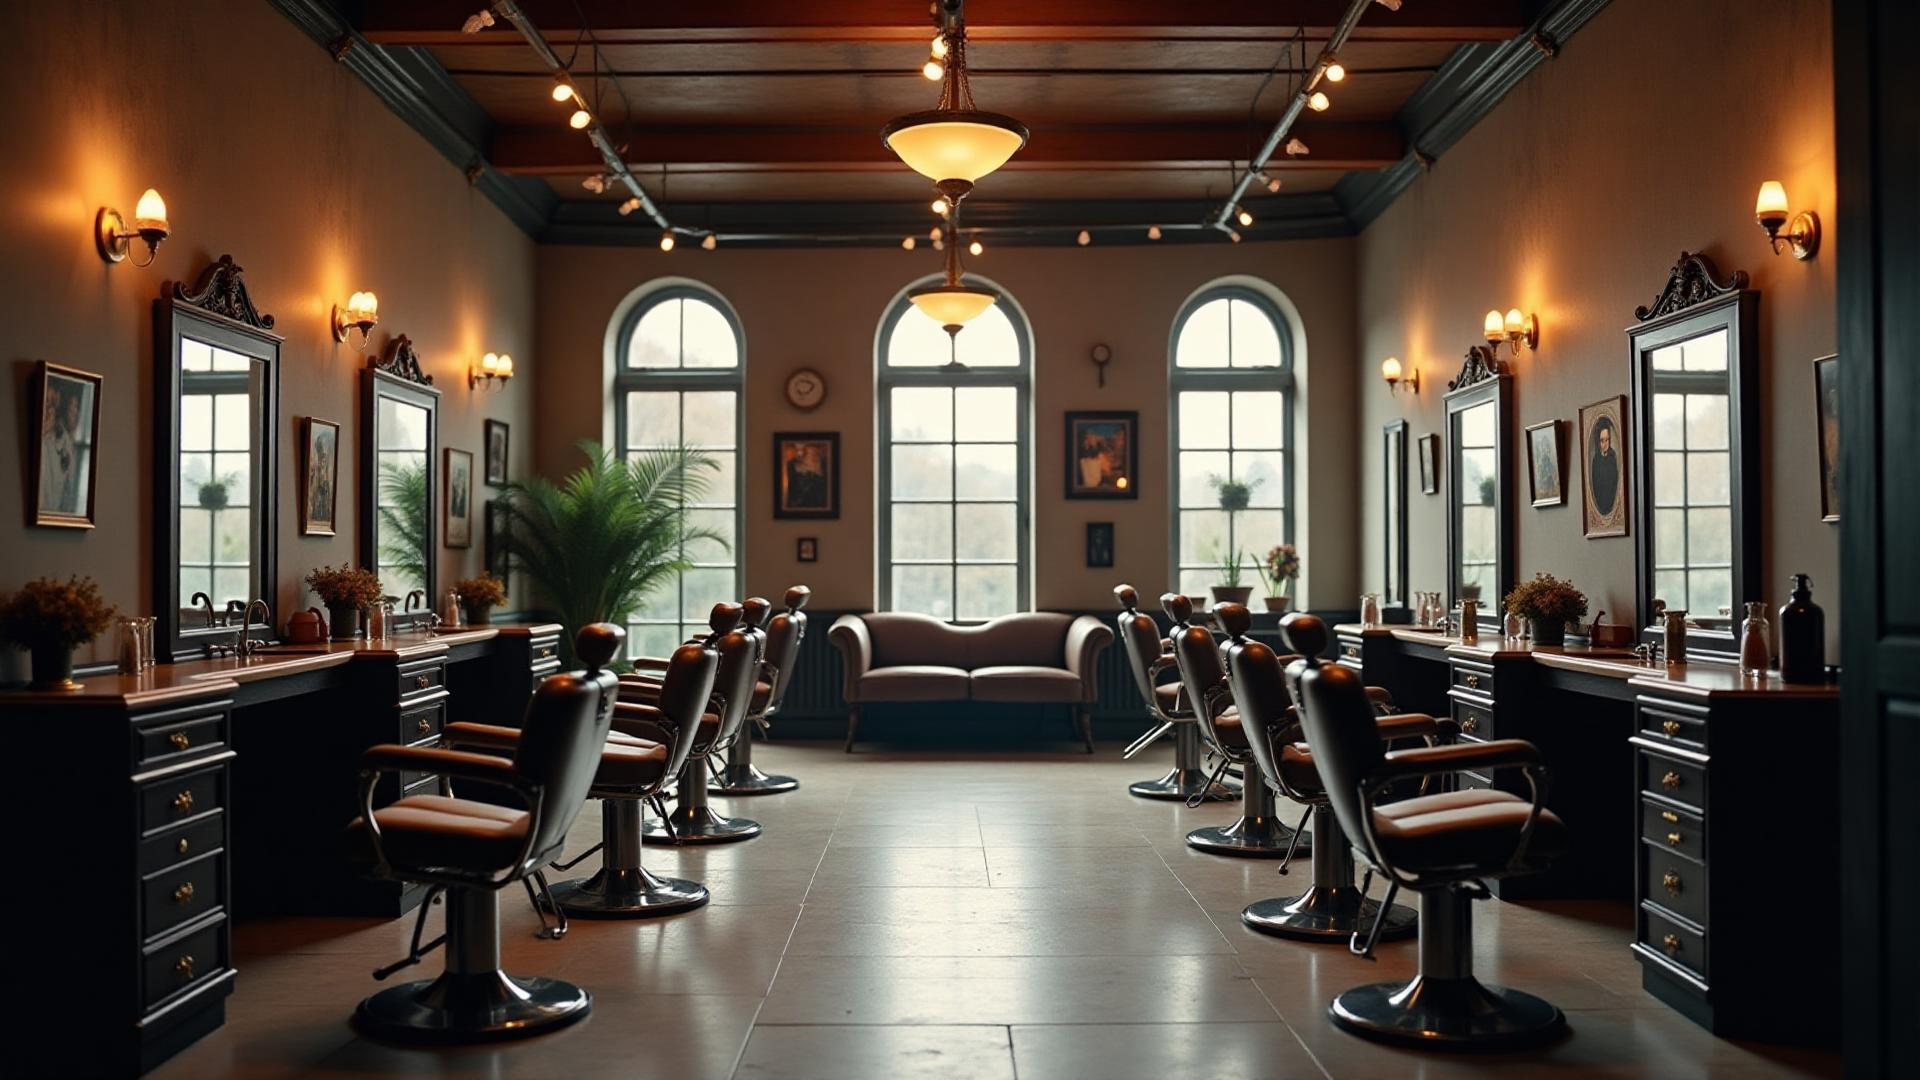
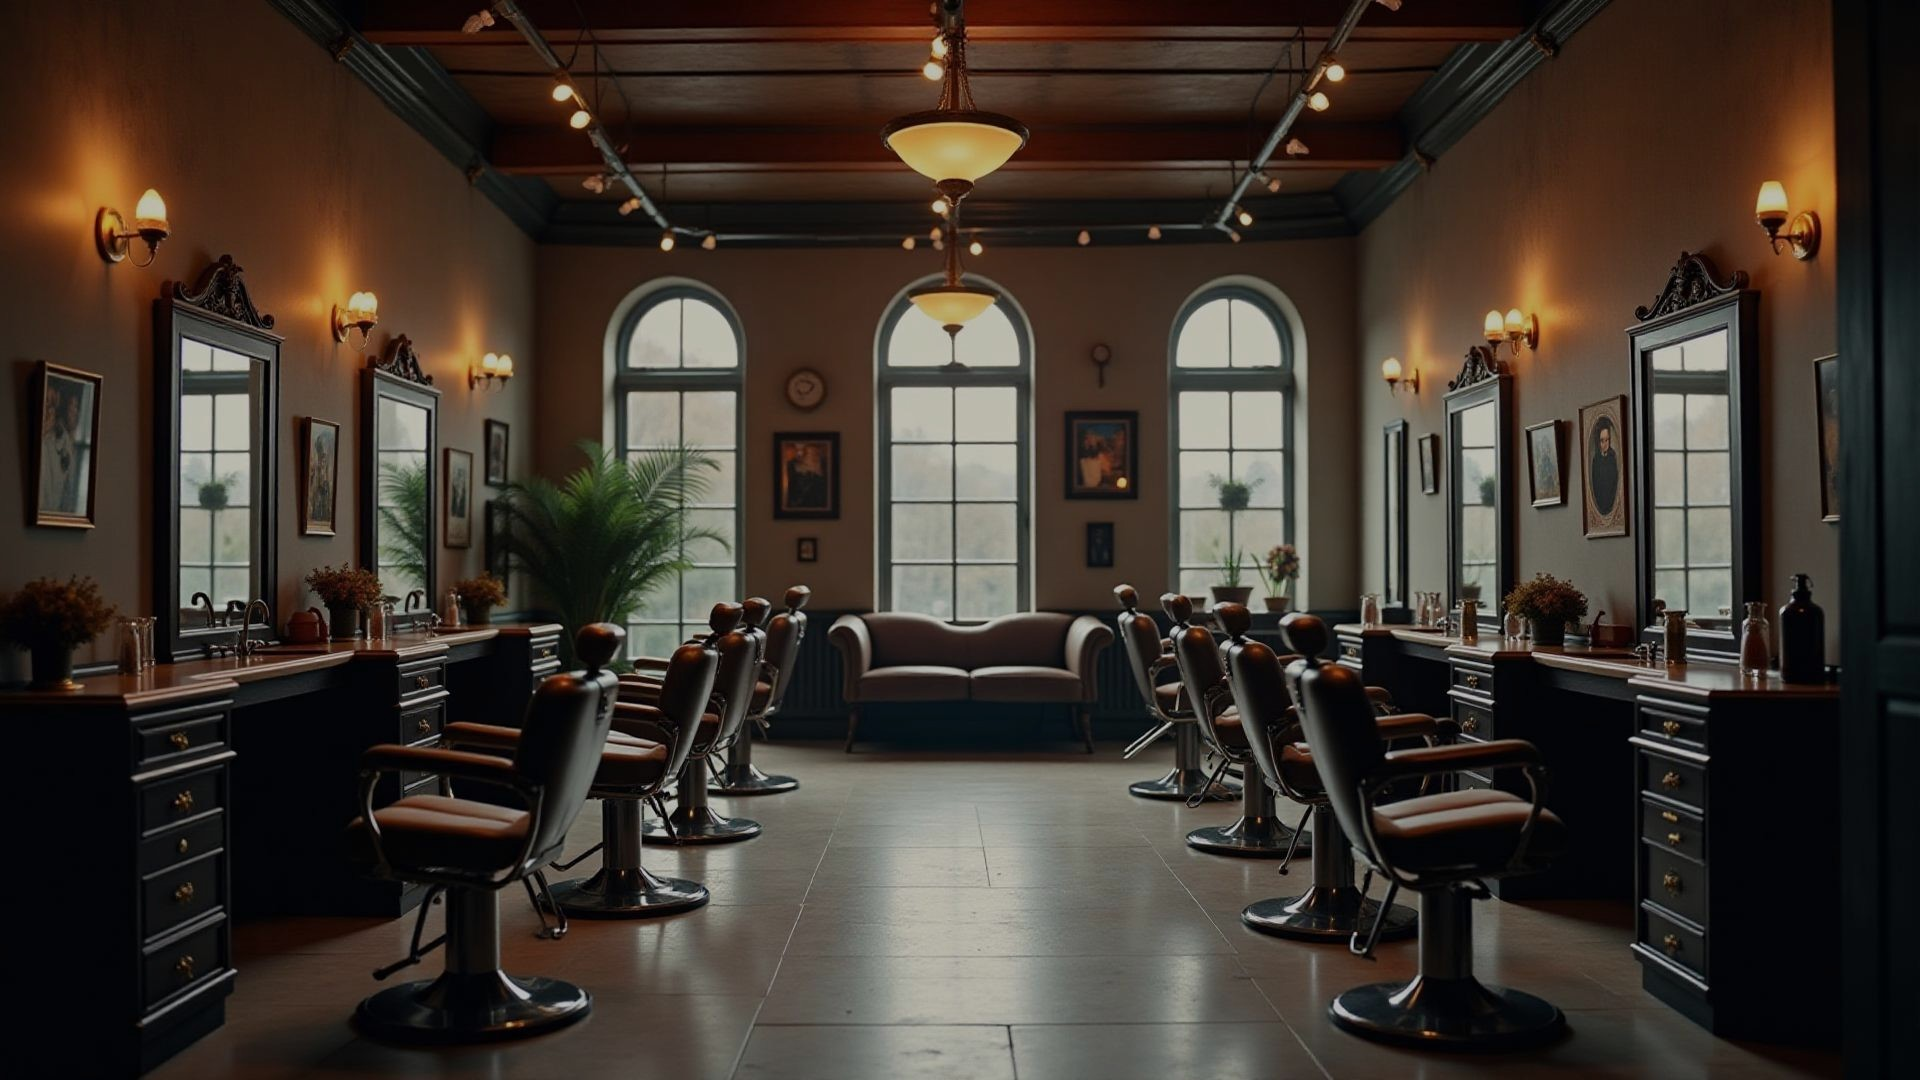
modifico

diff --git a/css/styles.css b/css/styles.css
@@ -76,17 +76,9 @@ header {
 
 
 
-
-.container {
-    max-width: 1200px;
-    margin: 0 auto;
-}
-
-
-
 /* hero */
-.header {
-    background-image: url(../images/bg.jpg);
+#inicio {
+    background-image: url(../images/local.jpg);
     background-position: center top;
     background-repeat: no-repeat;
     background-size: cover;
@@ -97,6 +89,8 @@ header {
 
 .header-content {
     padding-top: 80px;
+    max-width: 1200px;
+    margin: 0 auto;
 }
 
 .menu {

diff --git a/index.html b/index.html
@@ -35,8 +35,6 @@
     </header>
 
 
-
-
     <section id="inicio">
     <div class="header-content container">
         <div class="header-txt">
